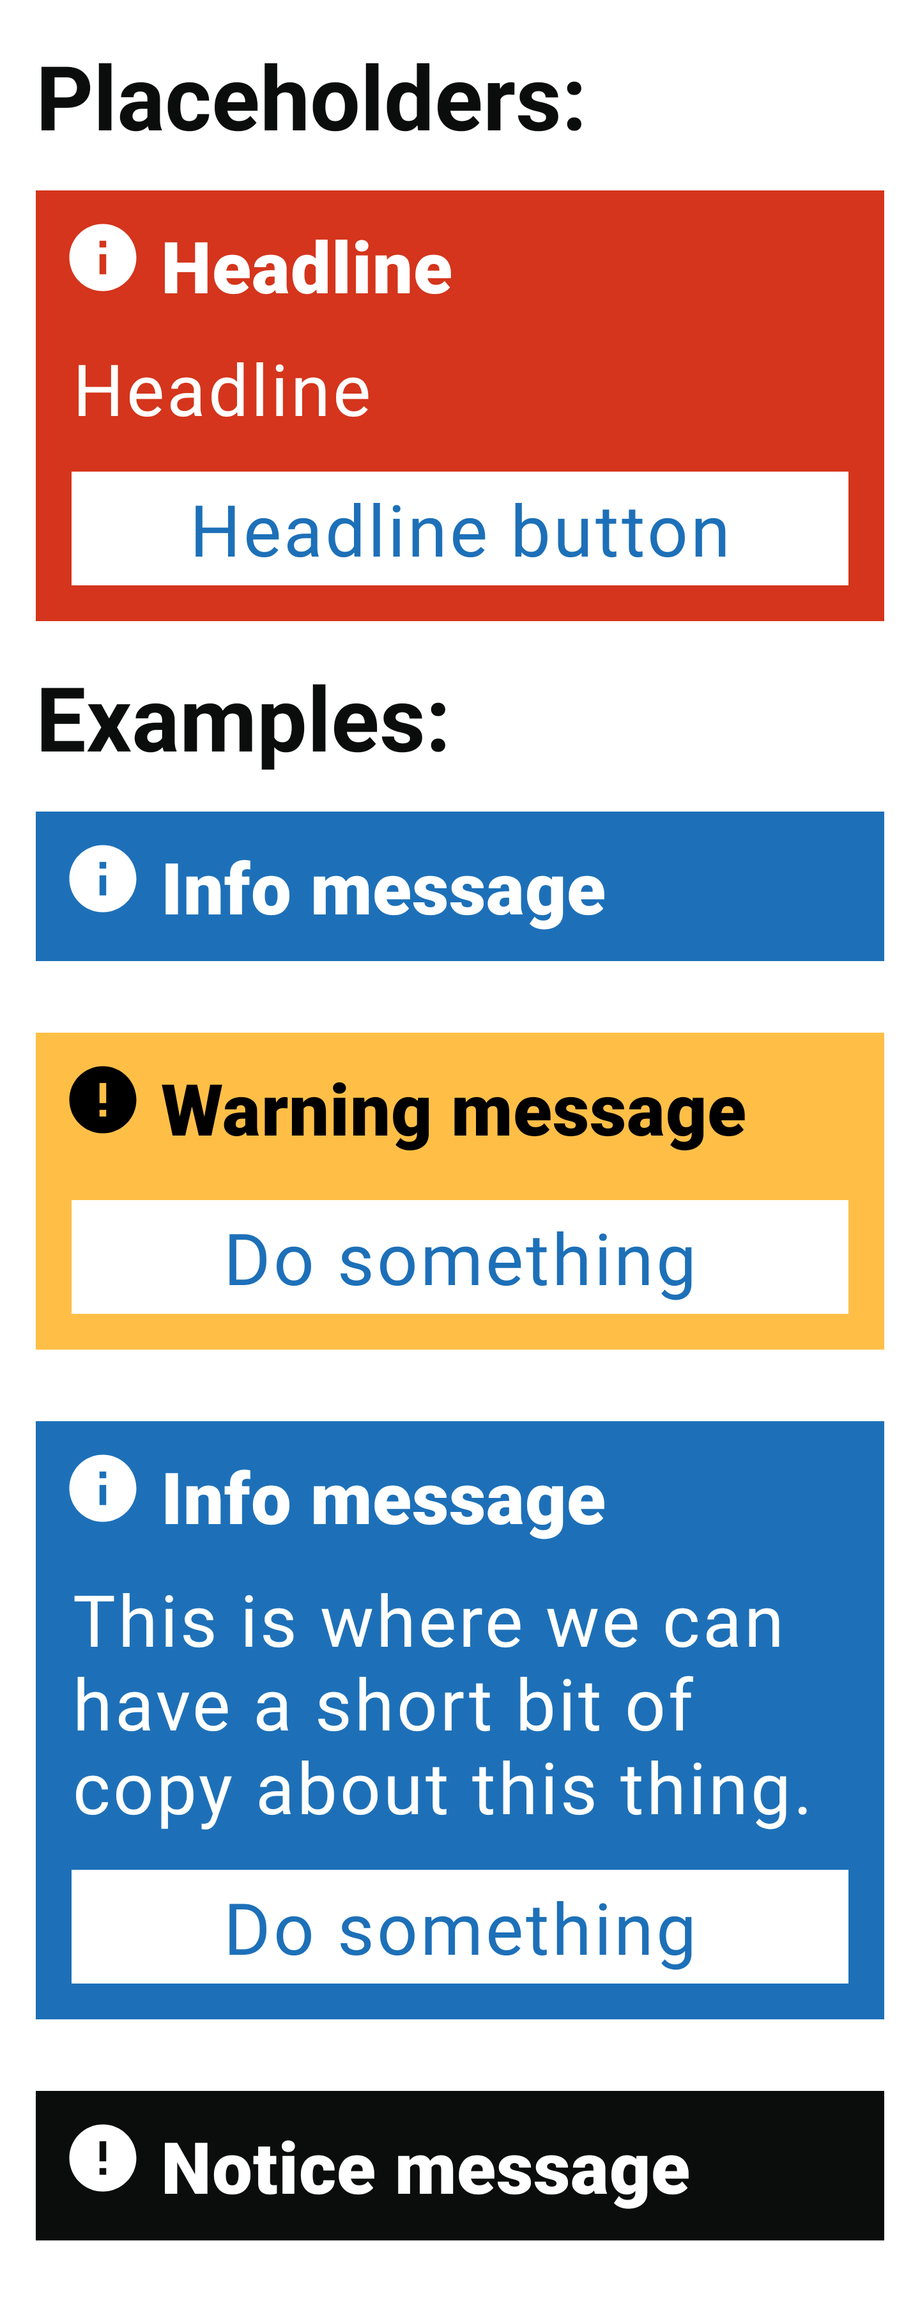
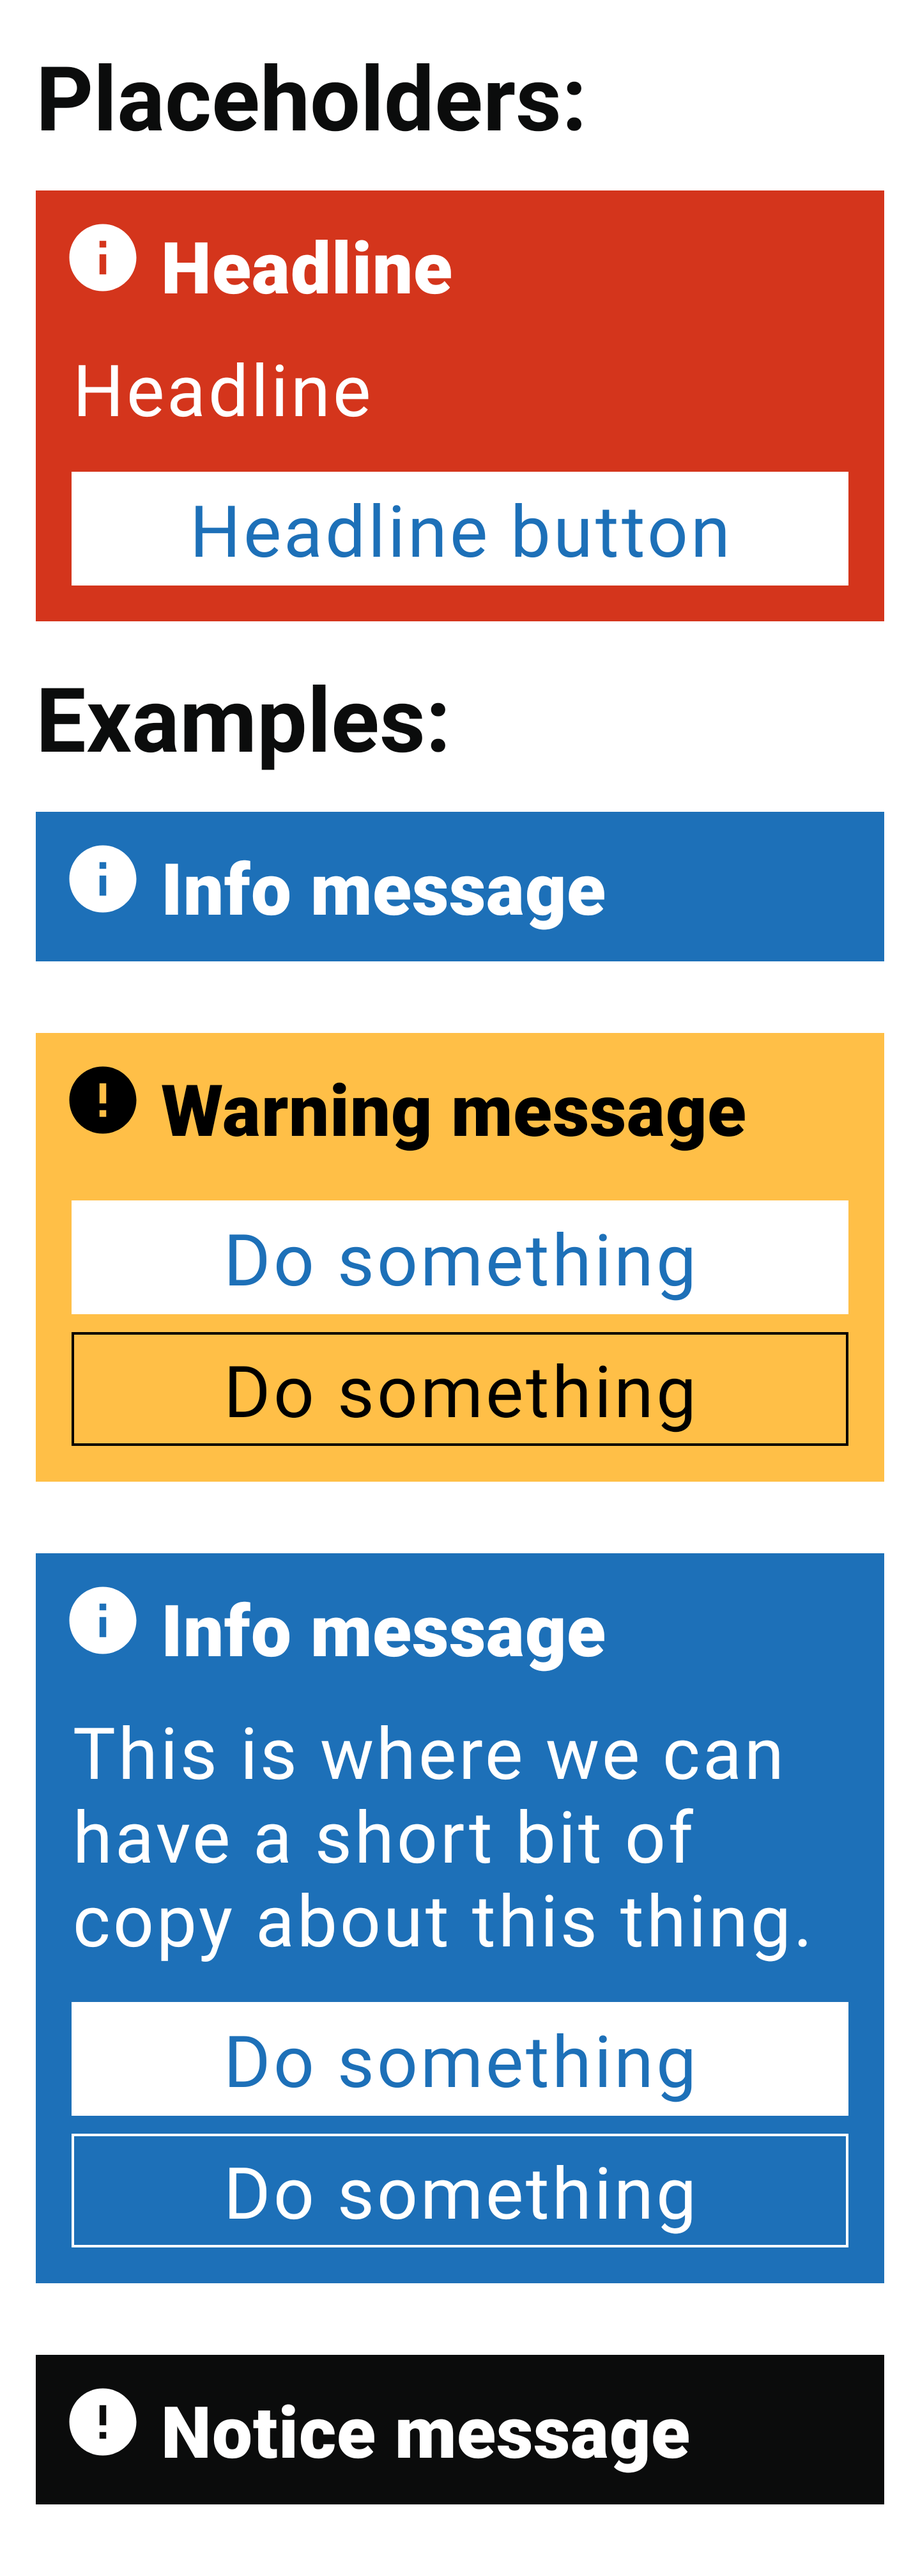
HMA-5565: Update InformationMessageCardView to show outline style button (#74)
* HMA-5565: Update InformationMessageCardView to show outline style button

* update changelog to state the breaking change

* screenshot diff

* address comment

* deteke

diff --git a/sample/src/main/java/uk/gov/hmrc/components/sample/organisms/InformationMessageCardFragment.kt b/sample/src/main/java/uk/gov/hmrc/components/sample/organisms/InformationMessageCardFragment.kt
@@ -20,6 +20,8 @@ import android.view.LayoutInflater
 import android.view.View
 import android.view.ViewGroup
 import uk.gov.hmrc.components.atom.button.SecondaryButton
+import uk.gov.hmrc.components.organism.information.InformationMessageButton.ActionButton
+import uk.gov.hmrc.components.organism.information.InformationMessageButton.OutlineButton
 import uk.gov.hmrc.components.sample.R
 import uk.gov.hmrc.components.sample.autoCleared
 import uk.gov.hmrc.components.sample.base.BaseComponentsFragment
@@ -40,25 +42,53 @@ class InformationMessageCardFragment : BaseComponentsFragment() {
     override fun onViewCreated(view: View, savedInstanceState: Bundle?) {
         super.onViewCreated(view, savedInstanceState)
 
-        binding.infoMessagePlaceholder.setHeadlineButtons(
-            listOf(
-                SecondaryButton(requireContext()).apply { setText(R.string.info_message_placeholder_headline_button) }
+        binding.infoMessagePlaceholder.apply {
+            setHeadlineButtons(
+                listOf(
+                    ActionButton(
+                        SecondaryButton(requireContext()).apply {
+                            setText(R.string.info_message_placeholder_headline_button)
+                        }
+                    )
+                )
             )
-        )
+        }
 
         binding.infoMessageExample1
             .setHeadlineContentDescription(getString(R.string.info_message_example_1_headline_content_description))
 
-        binding.infoMessageExample2.setHeadlineButtons(
-            listOf(
-                SecondaryButton(requireContext()).apply { setText(R.string.info_message_example_2_button) }
+        binding.infoMessageExample2.apply {
+            setHeadlineButtons(
+                listOf(
+                    ActionButton(
+                        SecondaryButton(requireContext()).apply {
+                            setText(R.string.info_message_example_2_button)
+                        }
+                    ),
+                    OutlineButton(
+                        SecondaryButton(requireContext()).apply {
+                            setText(R.string.info_message_example_2_button)
+                        }
+                    )
+                )
             )
-        )
+        }
 
-        binding.infoMessageExample3.setHeadlineButtons(
-            listOf(
-                SecondaryButton(requireContext()).apply { setText(R.string.info_message_example_3_button) }
+        binding.infoMessageExample3.apply {
+            setHeadlineButtons(
+                listOf(
+                    ActionButton(
+                        SecondaryButton(requireContext()).apply {
+                            setText(R.string.info_message_example_3_button)
+                        }
+                    ),
+                    OutlineButton(
+                        SecondaryButton(requireContext()).apply {
+                            setText(R.string.info_message_example_3_button)
+                        }
+                    )
+                )
             )
-        )
+        }
     }
 }

diff --git a/components/src/main/java/uk/gov/hmrc/components/organism/information/InformationMessageCardView.kt b/components/src/main/java/uk/gov/hmrc/components/organism/information/InformationMessageCardView.kt
@@ -92,7 +92,7 @@ class InformationMessageCardView @JvmOverloads constructor(
         }
     }
 
-    fun setHeadlineButtons(buttons: List<SecondaryButton>) {
+    fun setHeadlineButtons(buttons: List<InformationMessageButton>) {
         binding.headlineButtonsContainer.removeAllViews()
 
         val spacing8 = context.resources.getDimensionPixelSize(R.dimen.hmrc_spacing_8)
@@ -100,11 +100,21 @@ class InformationMessageCardView @JvmOverloads constructor(
 
         binding.headlineButtonsContainer.visibility = if (buttons.isNotEmpty()) View.VISIBLE else View.GONE
         buttons.forEach {
-            it.minHeight = 0
-            it.setMargins(spacing16, spacing8, spacing16, 0)
-            it.backgroundTintList = ContextCompat.getColorStateList(context, R.color.hmrc_white)
-            it.gravity = Gravity.CENTER
-            binding.headlineButtonsContainer.addView(it)
+            it.button.apply {
+                minHeight = 0
+                setMargins(spacing16, spacing8, spacing16, 0)
+                gravity = Gravity.CENTER
+            }
+            if (it.isOutlineButton) {
+                it.button.apply {
+                    strokeWidth = OUTLINE_STROKE_WIDTH
+                    strokeColor = ContextCompat.getColorStateList(context, type!!.headlineTint)
+                    setTextColor(ContextCompat.getColorStateList(context, type!!.headlineTint))
+                }
+            } else {
+                it.button.backgroundTintList = ContextCompat.getColorStateList(context, R.color.hmrc_white)
+            }
+            binding.headlineButtonsContainer.addView(it.button)
         }
     }
 
@@ -114,4 +124,13 @@ class InformationMessageCardView @JvmOverloads constructor(
         URGENT(R.color.hmrc_information_message_urgent_headline_background, R.color.hmrc_white),
         NOTICE(R.color.hmrc_information_message_notice_headline_background, R.color.hmrc_white)
     }
+
+    companion object {
+        private const val OUTLINE_STROKE_WIDTH = 4
+    }
+}
+
+sealed class InformationMessageButton(val button: SecondaryButton, val isOutlineButton: Boolean = false) {
+    data class ActionButton(val actionButton: SecondaryButton) : InformationMessageButton(actionButton, false)
+    data class OutlineButton(val outlineButton: SecondaryButton) : InformationMessageButton(outlineButton, true)
 }

diff --git a/CHANGELOG.md b/CHANGELOG.md
@@ -16,6 +16,12 @@ Allowed headings:
 
 ## [Unreleased]
 
+## [4.0.0] - 2022-03-23
+
+### Breaking change
+
+* Updated `InformationMessageCardView` button so it has the ability to set the button to outline style using `isOutlineButton`. This mean `setHeadlineButtons` will need to provide `InformationMessageButton` instead of `SecondaryButton`.
+
 ## [3.22.0] - 2022-02-03
 
 ### Changed
